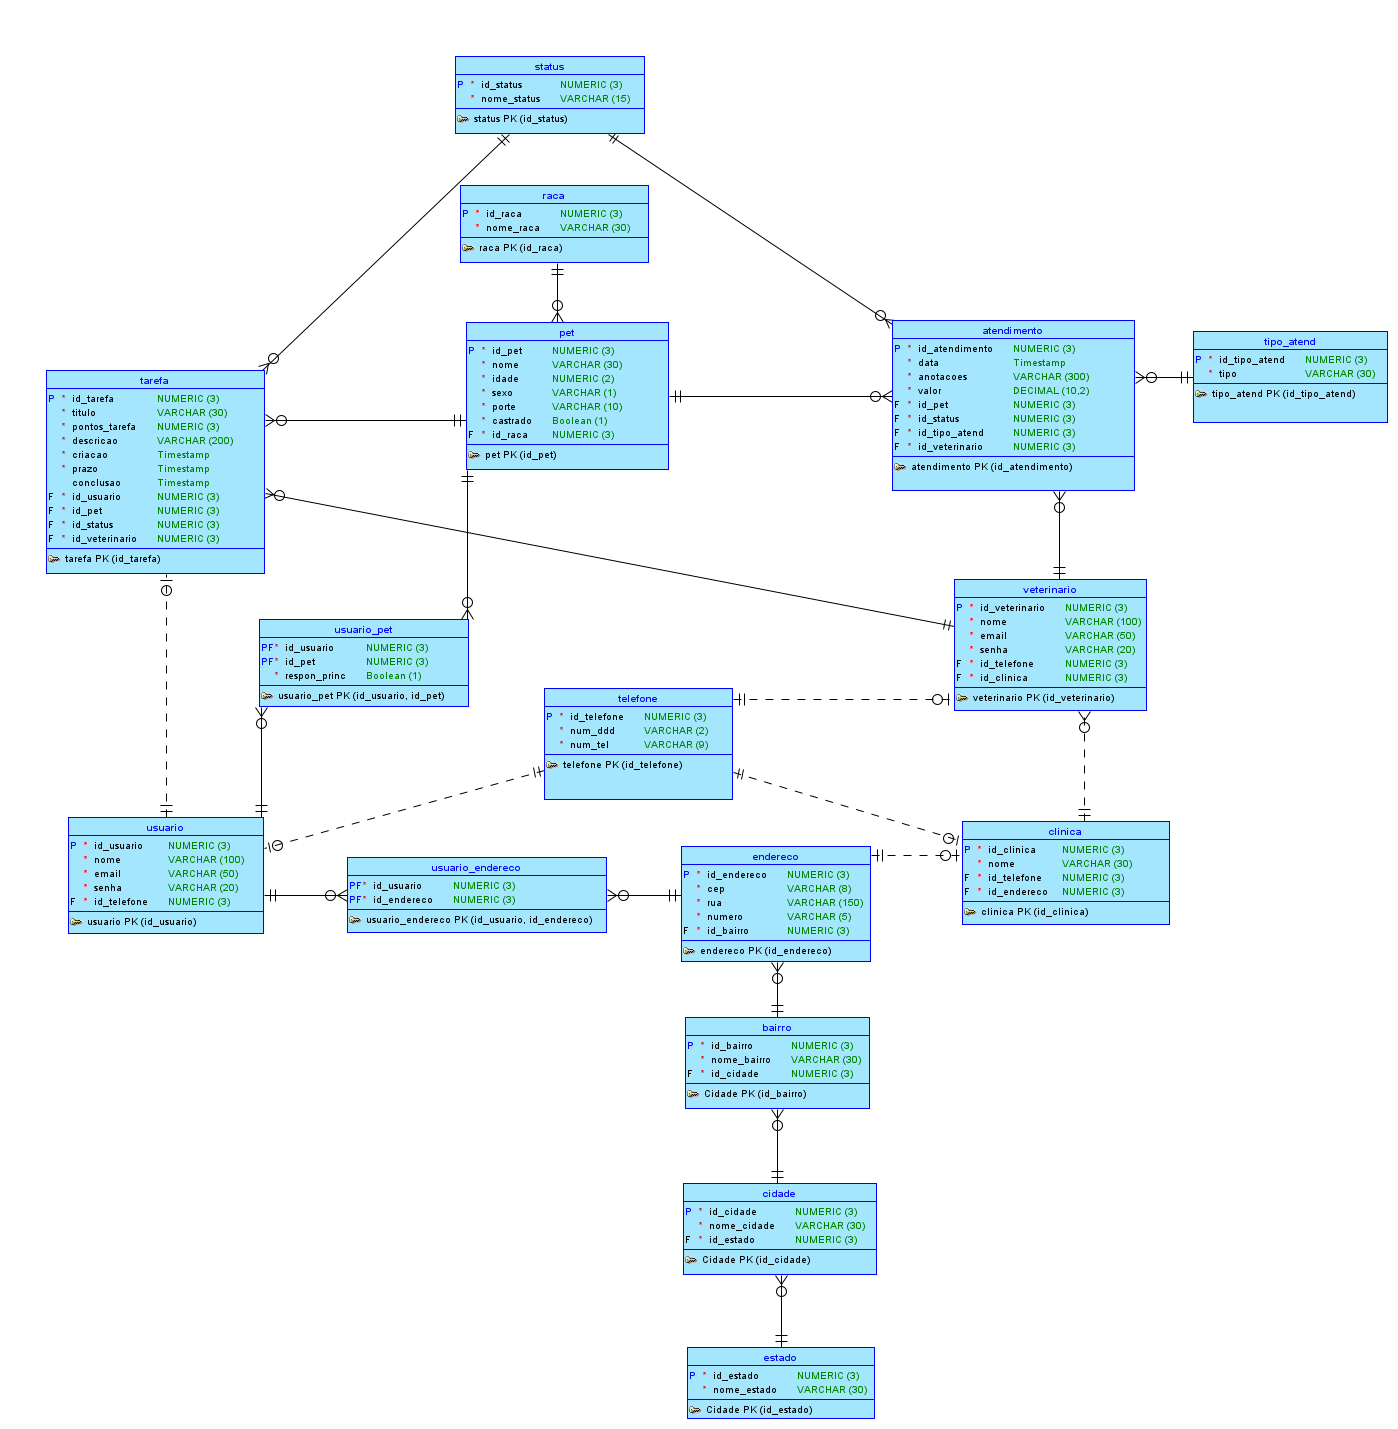
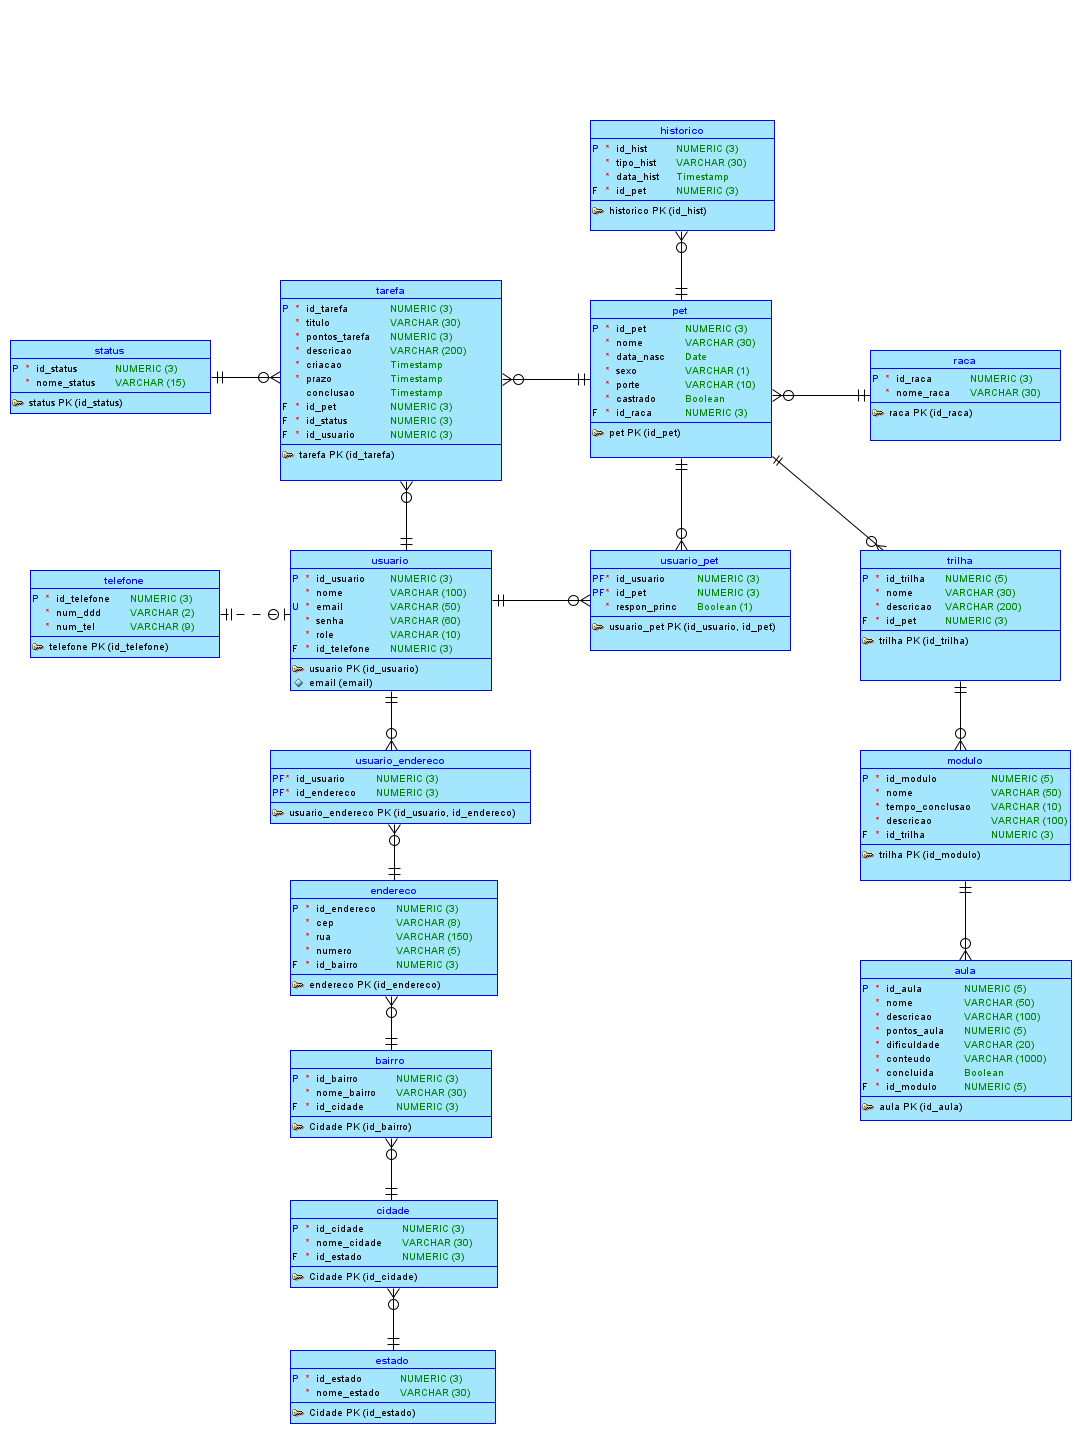
feat: atualizando o readme e as imagens do banco

diff --git a/README.md b/README.md
@@ -315,28 +315,3 @@ Tipos tratados:
 - integridade de dados (`400`)
 - recurso nao encontrado (`404`)
 - erro inesperado (`500`)
-
----
-
-## Cronograma de Desenvolvimento
-
-Abaixo consta o resumo das principais entregas e marcos do desenvolvimento técnico da API, centralizado no desenvolvedor principal, **Enzo Okuizumi**:
-
-| Data / Período | Atividade Realizada | Responsável | Status |
-|---|---|---|---|
-| **01/05/2026** a **02/05/2026** | Inicialização, Setup e Estrutura de Configuração Base | Enzo Okuizumi | Concluído |
-| **05/05/2026** a **10/05/2026** | Modelagem JPA Completa e Mapeamento de Entidades | Enzo Okuizumi | Concluído |
-| **12/05/2026** a **14/05/2026** | Lógica de DTOs, Services e CEP | Enzo Okuizumi | Concluído |
-| **18/05/2026** a **20/05/2026** | Refatorações Complexas, Tratamento Global de Erros e Validations | Enzo Okuizumi | Concluído |
-| **21/05/2026** a **22/05/2026** | Paginação Geral (Swagger), Ordenação e Restauração de @PageableDefault | Enzo Okuizumi | Concluído |
-
-
-## Print Trello (Tirado em 22/05/2026)
-
-![Print Trello](/docs/cronograma-trello.png)
-
-## Print Trello Java
-
-![Print Trello Java](/docs/cronograma-java.png)
-
----
